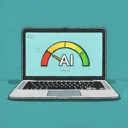
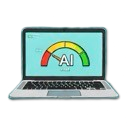
chore(release): 0.4.1

diff --git a/README.md b/README.md
@@ -14,6 +14,9 @@ Monitor your GitHub Copilot Premium usage and spend against a monthly budget in 
 |-----------|----------------------|
 | ![Panel](./media/screenshot-panel.png) | ![Status Bar](./media/screenshot-statusbar.png) |
 
+### Icon
+The extension icon (`media/icon.png`) uses a transparent background to blend with both light and dark Marketplace themes. If you replace it, prefer a square PNG (128×128 or 256×256) with transparency (no solid white/black box) and avoid heavy outer padding so it renders crisply at smaller sizes.
+
 
 ## Features
 

diff --git a/CHANGELOG.md b/CHANGELOG.md
@@ -9,6 +9,8 @@ The format is based on Keep a Changelog and this project adheres to Semantic Ver
 - Basic activation test harness.
 - CI workflow for build and packaging.
 - Optional command to force refresh ignoring cache.
+### Changed
+- Updated extension icon (icon.png) to use a fully transparent background for better appearance in light/dark themes.
 
 ## [0.4.0] - 2025-08-12
 ### Added
